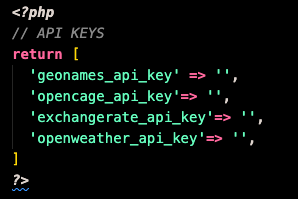
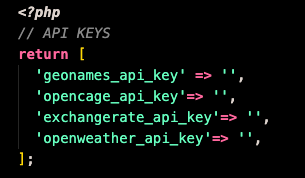
Update readme

diff --git a/gazetteer/libraries/php/get_country_list.php b/gazetteer/libraries/php/get_country_list.php
@@ -2,4 +2,3 @@
   header('Content-Type: application/json');
   $data = file_get_contents('../../data/countryBorders.geo.json');
   echo $data;
-?>

diff --git a/gazetteer/libraries/php/get_wiki_links.php b/gazetteer/libraries/php/get_wiki_links.php
@@ -12,4 +12,3 @@
   }
   $decoded_data = json_decode($data, true);
   echo json_encode($decoded_data);
-?>

diff --git a/gazetteer/libraries/php/get_country_features.php b/gazetteer/libraries/php/get_country_features.php
@@ -23,5 +23,3 @@
 
   header('Content-Type: application/json');
   echo json_encode($combinedData);
-
-?>

diff --git a/gazetteer/libraries/php/get_coords_by_country_code.php b/gazetteer/libraries/php/get_coords_by_country_code.php
@@ -44,4 +44,3 @@
   } else {
       echo json_encode(["error" => "No country code provided."]);
   }
-?>

diff --git a/gazetteer/libraries/php/get_country_info.php b/gazetteer/libraries/php/get_country_info.php
@@ -19,4 +19,3 @@
 
   header('Content-Type: application/json');
   echo json_encode($combinedData);
-?>

diff --git a/gazetteer/libraries/php/get_weather.php b/gazetteer/libraries/php/get_weather.php
@@ -21,4 +21,3 @@
 
   header('Content-Type: application/json');
   echo json_encode($combinedData);
-?>

diff --git a/gazetteer/libraries/php/get_airports.php b/gazetteer/libraries/php/get_airports.php
@@ -8,4 +8,3 @@
 
   $data = fetch_data($url);
   print_r($data);
-?>

diff --git a/gazetteer/libraries/php/get_converted_currency.php b/gazetteer/libraries/php/get_converted_currency.php
@@ -8,4 +8,3 @@
   $data = fetch_data($url);
 
   print_r($data);
-?>

diff --git a/gazetteer/libraries/php/get_country_from_coords.php b/gazetteer/libraries/php/get_country_from_coords.php
@@ -8,4 +8,3 @@
 
   $data = fetch_data($url);
   print_r($data);
-?>

diff --git a/gazetteer/libraries/php/get_hospitals.php b/gazetteer/libraries/php/get_hospitals.php
@@ -8,4 +8,3 @@
 
   $data = fetch_data($url);
   print_r($data);
-?>

diff --git a/gazetteer/libraries/php/fetch_data.php b/gazetteer/libraries/php/fetch_data.php
@@ -10,4 +10,3 @@
     curl_close($ch);
     return $data;
   }
-?>

diff --git a/gazetteer/README.md b/gazetteer/README.md
@@ -27,7 +27,7 @@ The brief for this project was to a creative an interactive gazetteer-style map 
 
 ## Installation
 To run the app locally, download the files and create a `config.php` file in `libraries/php`. This file will hold your API keys for the following APIs:
-- Geonames (from [GeoNames.org](`https://www.geonames.org/manageaccount`))
+- GeoNames (from [GeoNames.org](https://www.geonames.org/manageaccount))
 - OpenCage (from [OpenCagedata.com](https://opencagedata.com/api))
 - OpenWeather (from [OpenWeathermap.org/api](https://openweathermap.org/api))
 - ExchangeRate (from [ExchangeRate-api.com](https://www.exchangerate-api.com/))
@@ -35,6 +35,7 @@ To run the app locally, download the files and create a `config.php` file in `li
 As of August 2024 all of these API keys can be gotten for free. OpenWeather's free option is a little tricky to find but a `Subscribe for free` link is in the footer. 
 
 Set out the file like in the below diagram and fill in the variables with the associated API keys. These will be fed to the cURL requests in various PHP files.
+
 ![A screenshot of my config.php file](images/readme_images/readme_img_2.png)
 
 ## Technologies
@@ -56,14 +57,13 @@ This application makes use of:
 Upon initial page load, the browser passes user coordinates to the app, which centres map visuals and pulled data on their home country. Although the user is able to move around the globe and examine other countries, this data is stored so that the user can always return home, and for use in the currency converter.
 
 ### Pull Country Info
-Whichever country is selected by the user has its data pulled and displayed. On initial page load this is for the user's location country. Data is fed to map layers and modals.
+Whichever country is selected by the user has its data pulled and displayed. On initial page load this is for the user's location country. Data is fed to map layers and modals. The country's cities data is automatically added to the map.
 
 
 
 ### Buttons
 #### Info
 The info modal displays data on the selected country, including:
-- Cities (displayed on map)
 - Capital city
 - Population
 - Area
@@ -74,8 +74,8 @@ The info modal displays data on the selected country, including:
 - Speed Unit
 
 #### Currency
-The currency modal displays the name, syymbol and currency code for the selected country. It also has a converter function, which is set to always offer the country's exchange rate with the user's home country:
-![A screenshot of the currency modal](images/readme_images/readme_img_3.png)
+The currency modal displays the name, symbol and currency code for the selected country. It also has a converter function, which is set to always offer the country's exchange rate with the user's home country:
+![A screenshot of the currency modal](images/readme_images/readme_img_3.jpeg)
 
 #### Current Weather
 This modal shows current weather for the selected country, including:
@@ -103,14 +103,14 @@ Unfortunately due to the nature of working with APIs and third-party data source
 
 Despite this, extensive testing has shown that nearly all data displayed by my app is reliable and correct.
 
+The app's intial load time is also dependent on it's initialsing API calls, so despite being lightweight in size it can be sluggish to start.
+
 
 ### Prospective Improvements
 To prevent 'project creep' I gave myself targets to hit and restricted myself from following too many ideas that sprung up during the build. I adhere to the mantra 'Finished is better than perfect' (since perfect never gets finished). However I did take note of ideas for improvement, many of which I hope to come back to:
 
-- Replace alerts with Bootstrap Toasts
-  The alerts the site currently uses are in case of errors, and so far in testing I have not come across them. This can be considered a minor improvement.
+- Replace alerts with Bootstrap Toasts. The alerts the site currently uses are in case of errors, and so far in testing I have not come across them. This can be considered a minor improvement.
 
-- Get more airport information
-  My preferred source of airport information was AirLabs, but when I signed up for my API key I was informed that due to high numbers of signups, they are now manually assessing API key requests, and I was unable to get mine in time for this project.
+- Get more airport information. My preferred source of airport information was AirLabs, but when I signed up for my API key I was informed that due to high numbers of signups, they are now manually assessing API key requests, and I was unable to get mine in time for this project.
 
 - Addition of a News Modal
